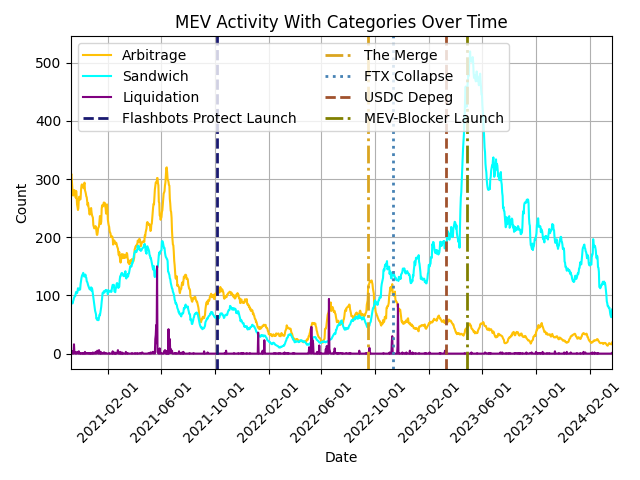
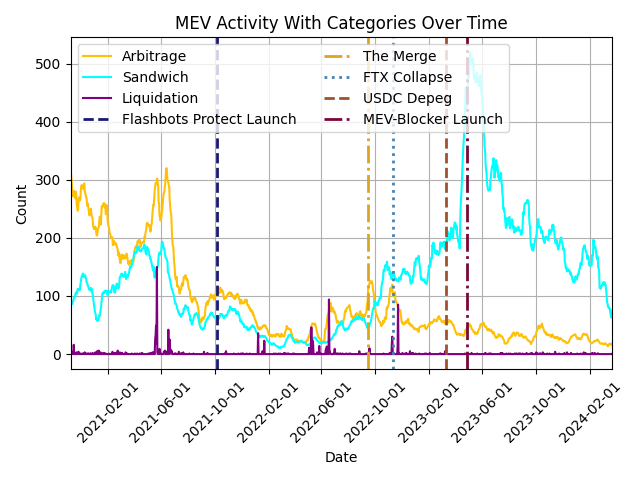
update mevblocker to mulberry

diff --git a/section_5/5.3_post_merge/5.3.1_private_ofa/private_ofa.py b/section_5/5.3_post_merge/5.3.1_private_ofa/private_ofa.py
@@ -41,11 +41,11 @@ def plot_data(data, mev_blocker_data, filepath):
     # Setting tick rotation and alignment to center
     plt.setp(ax1.get_xticklabels(), rotation=45, ha="center")
 
-    significant_dates = {
-        '2023-04-01': ('#228B22', '-.', 'MEV-Share Launch'), # forest green
-        '2023-04-05': ('#cc5500', '-.', 'MEV Blocker Launch'), # burnt orange
+    significant_dates = {        
         '2022-11-11': ('steelblue', ':', 'FTX Collapse'),
         '2023-03-11': ('sienna', '--', 'USDC Depeg'),
+        '2023-04-01': ('rebeccapurple', '-.', 'MEV-Share Launch'),
+        '2023-04-27': ('#770737', '-.', 'MEV-Blocker Launch'), #mulberry
     }
     lines = [line1, line2, line3]
     labels = [line1.get_label(), line2.get_label(), line3.get_label()]
@@ -60,60 +60,6 @@ def plot_data(data, mev_blocker_data, filepath):
 
     plt.grid(True)
     plt.tight_layout()
-    plt.savefig(filepath)
-
-def plot_data_double_axis(data, mev_blocker_data, filepath):
-    # Smoothing data
-    mev_blocker_data['mined'] = mev_blocker_data['mined'].rolling(window=14, min_periods=7, center=True).mean()
-
-    fig, ax1 = plt.subplots()
-
-    # First axis plots
-    color = '#003f5c' # deep blue
-    ax1.set_xlabel('Date')
-    ax1.set_ylabel('Transaction Count', color="navy")
-    line1, = ax1.plot(data['block_date'], data['private_tx_count'], color=color, label='Private Transactions')
-    ax1.tick_params(axis='y', labelcolor="navy")
-
-    color = '#c2185b' # magenta
-    line2, = ax1.plot(mev_blocker_data['block_date'], mev_blocker_data['mined'], color=color, label='MEV Blocker Transactions')
-
-    # Second axis plots
-    ax2 = ax1.twinx()  
-    color = 'limegreen'
-    ax2.set_ylabel('MEV-Share Bundle Count', color=color)
-    line3, = ax2.plot(data['block_date'], data['fb_postmerge_tx_count'], linestyle='-', color=color, label='Flashbots Bundles')
-    ax2.tick_params(axis='y', labelcolor='green')
-
-    # Date formatting
-    plt.setp(ax1.get_xticklabels(), rotation=45, ha="center")
-    plt.title('Private Transactions and MEV-Share Bundles')
-    ax1.xaxis.set_major_locator(mdates.MonthLocator(interval=2))
-    ax1.xaxis.set_major_formatter(mdates.DateFormatter('%Y-%m-%d'))
-    ax1.set_xlim(left=data['block_date'].min(), right=data['block_date'].max())
-
-    ax1.set_ylim(0)
-    ax2.set_ylim(0)
-
-    # Significant dates
-    significant_dates = {
-        '2023-04-01': ('#cc5500', '-.', 'MEV-Share Launch'), # burnt orange
-        '2023-04-05': ('#228B22', '-.', 'MEV Blocker Launch'), # forest green
-    }
-    date_lines = []
-    for date, (color, linestyle, label) in significant_dates.items():
-        line = ax1.axvline(pd.Timestamp(date), color=color, linestyle=linestyle, linewidth=2, label=label)
-        date_lines.append((line, label))
-
-    fig.tight_layout()  # Adjust layout to make room for the legend
-
-    # Manually setting legend order
-    handles = [line1, line2, line3] + [dl[0] for dl in date_lines]
-    labels = ['Private Transactions', 'MEV Blocker Transactions', 'MEV-Share Bundles'] + [dl[1] for dl in date_lines]
-    ax1.legend(handles, labels, loc='upper left')
-
-    plt.grid(True)
-    plt.setp(ax1.get_xticklabels(), rotation=45)
     plt.savefig(filepath)
 
 def main():

diff --git a/section_5/5.3_post_merge/5.3.2_mev_and_ofa/mev_ofa.py b/section_5/5.3_post_merge/5.3.2_mev_and_ofa/mev_ofa.py
@@ -70,11 +70,11 @@ def plot_data_double_axis(data, mev_blocker_data, filepath):
     # ax1.set_ylim(0)
     ax2.set_ylim(0)
 
-    significant_dates = {
-        '2023-04-01': ('#228B22', '-.', 'MEV-Share Launch'), # forest green
-        '2023-04-05': ('#cc5500', '-.', 'MEV Blocker Launch'), # burnt orange
+    significant_dates = {  
         '2022-11-11': ('steelblue', ':', 'FTX Collapse'),
         '2023-03-11': ('sienna', '--', 'USDC Depeg'),
+        '2023-04-01': ('rebeccapurple', '-.', 'MEV-Share Launch'),
+        '2023-04-27': ('#770737', '-.', 'MEV-Blocker Launch'), #mulberry
     }
     for date, (color, linestyle, label) in significant_dates.items():
         ax1.axvline(pd.Timestamp(date), color=color, linestyle=linestyle, linewidth=2, label=label)
@@ -89,7 +89,7 @@ def plot_data_double_axis(data, mev_blocker_data, filepath):
             labels.append(label)
     
     # Display a single combined legend
-    leg = plt.legend(handles, labels, loc='upper left', fontsize="medium", ncol=1)
+    leg = plt.legend(handles, labels, loc='upper left', fontsize="medium", ncol=2)
     leg.set_zorder(100)  # Ensure legend is on top
 
     plt.grid(True)

diff --git a/section_5/5.1_private_big_picture/5.1.2_mev_activity/mev_and_swap.py b/section_5/5.1_private_big_picture/5.1.2_mev_activity/mev_and_swap.py
@@ -82,7 +82,7 @@ def plot_data_double_axis(data, filepath):
         '2022-09-15': ('goldenrod', '-.', 'The Merge'),
         '2022-11-11': ('steelblue', ':', 'FTX Collapse'),
         '2023-03-11': ('sienna', '--', 'USDC Depeg'),
-        '2023-04-27': ('olive', '-.', 'MEV-Blocker Launch'),
+        '2023-04-27': ('#770737', '-.', 'MEV-Blocker Launch'), #mulberry
     }
     for date, (color, linestyle, label) in significant_dates.items():
         ax1.axvline(pd.Timestamp(date), color=color, linestyle=linestyle, linewidth=2, label=label)

diff --git a/section_5/5.1_private_big_picture/5.1.2_mev_activity/mev_types.py b/section_5/5.1_private_big_picture/5.1.2_mev_activity/mev_types.py
@@ -45,7 +45,7 @@ def plot_data(data, filepath):
         '2022-09-15': ('goldenrod', '-.', 'The Merge'),
         '2022-11-11': ('steelblue', ':', 'FTX Collapse'),
         '2023-03-11': ('sienna', '--', 'USDC Depeg'),
-        '2023-04-27': ('olive', '-.', 'MEV-Blocker Launch'),
+        '2023-04-27': ('#770737', '-.', 'MEV-Blocker Launch'), #mulberry
     }
     for date, (color, linestyle, label) in significant_dates.items():
         ax.axvline(pd.Timestamp(date), color=color, linestyle=linestyle, linewidth=2, label=label)

diff --git a/section_5/5.4_damage/inclusion_time.py b/section_5/5.4_damage/inclusion_time.py
@@ -53,7 +53,7 @@ def plot_data(data, filepath):
         '2022-09-15': ('goldenrod', '-.', 'The Merge'),
         '2022-11-11': ('steelblue', ':', 'FTX Collapse'),
         '2023-03-11': ('sienna', '--', 'USDC Depeg'),
-        '2023-04-27': ('olive', '-.', 'OFAs'),
+        '2023-04-27': ('#770737', '-.', 'MEV-Blocker Launch'), #mulberry
     }
     lines = [line1, line2]  # Start with the main lines
     labels = [line1.get_label(), line2.get_label()]  # Start with the main labels

diff --git a/section_5/5.4_damage/gasprice.py b/section_5/5.4_damage/gasprice.py
@@ -52,7 +52,7 @@ def plot_data(data, filepath):
         '2022-09-15': ('goldenrod', '-.', 'The Merge'),
         '2022-11-11': ('steelblue', ':', 'FTX Collapse'),
         '2023-03-11': ('sienna', '--', 'USDC Depeg'),
-        '2023-04-27': ('olive', '-.', 'OFAs'),
+        '2023-04-27': ('#770737', '-.', 'MEV-Blocker Launch'), #mulberry
     }
     lines = [line1, line2]  # Add main lines first
     labels = [line1.get_label(), line2.get_label()]  # Add main labels first
